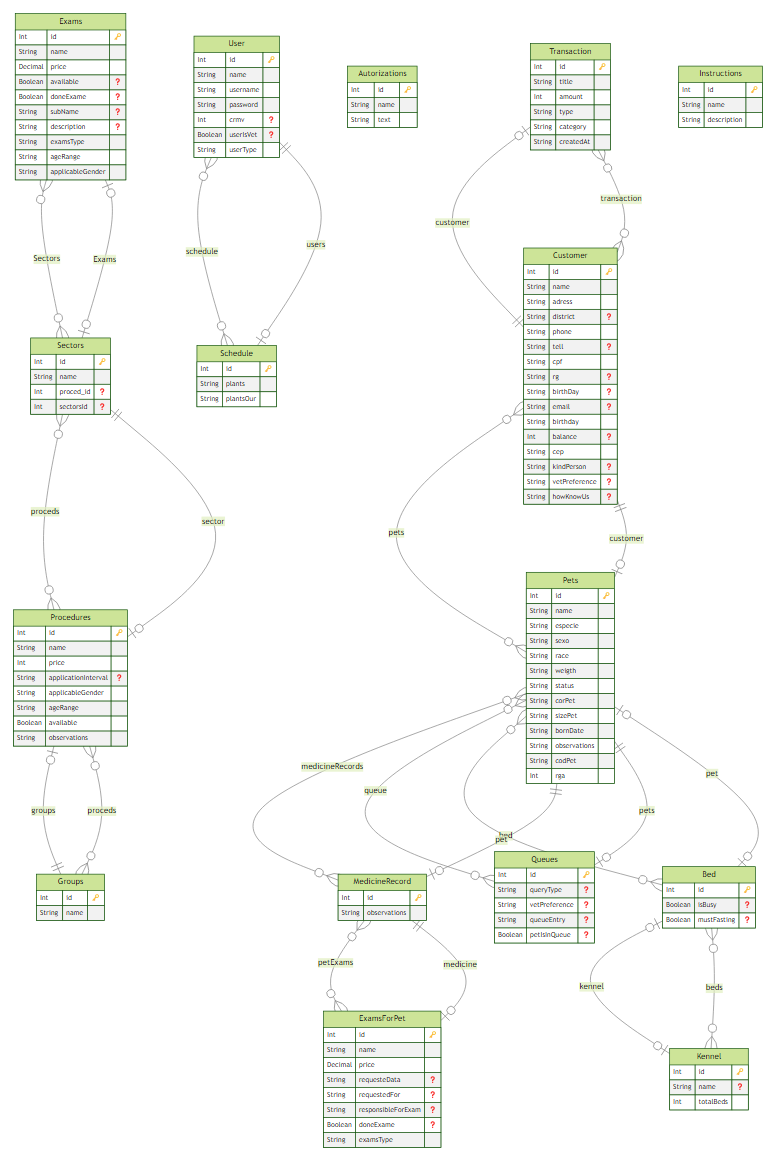
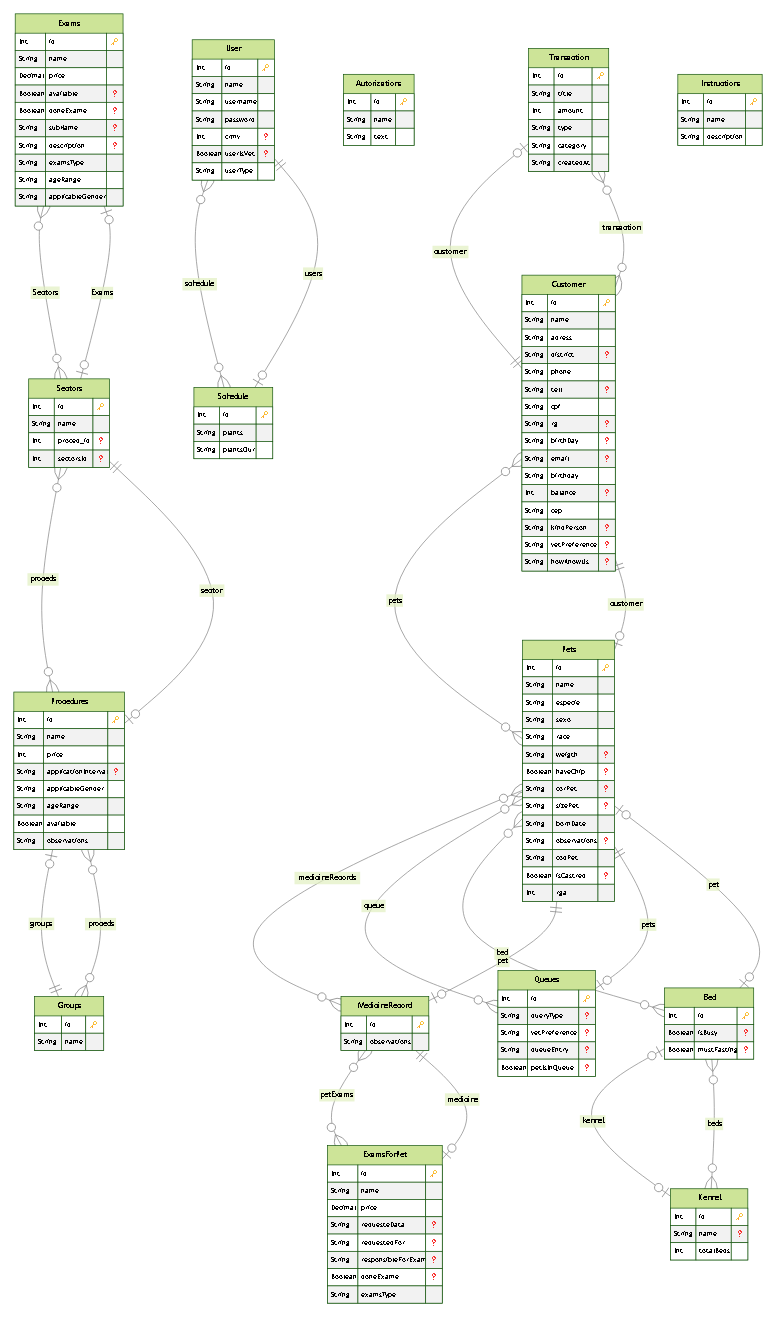
att0706

diff --git a/app/src/components/Forms/CreatePetsForm.tsx b/app/src/components/Forms/CreatePetsForm.tsx
@@ -4,8 +4,15 @@ import {
   FormControl,
   FormLabel,
   Button,
-  VStack
+  VStack,
+  Select,
+  HStack,
+  RadioGroup,
+  Radio,
+  Checkbox,
+  Textarea
 } from "@chakra-ui/react";
+import { useState } from "react";
 import { SubmitHandler, useForm } from "react-hook-form";
 import { useParams } from "react-router-dom";
 import { toast } from "react-toastify";
@@ -22,15 +29,228 @@ interface CreateNewPetProps {
     porte: string;
     sexo: string;
     rga: number;
-    status: string;
+    haveChip: string;
     obs: string
 }
 export function CreatePetsForm() {
     const { register, handleSubmit} = useForm()
     const { id } = useParams<{ id: string }>();
+    const [raceState, setEspecie] = useState("");
+    const [selectedYear, setSelectedYear] = useState('');
+    const [selectedMonth, setSelectedMonth] = useState('');
+    const [selectSex, setSelectedSex] = useState('');
+    const years = Array.from({ length: 21 }, (_, i) => i); 
+    const months = Array.from({ length: 13 }, (_, i) => i); 
+
+
+    const handleYearChange = (e: any) => {
+      setSelectedYear(e.target.value);
+    };
+  
+    const handleMonthChange = (e: any) => {
+      setSelectedMonth(e.target.value);
+    };
+  
+   let selectRaces
+    switch (true) {
+      case raceState === "Felina":
+        selectRaces = (
+          <Select borderColor="gray.900">
+             <option value="Birmanês">Birmanês</option>
+<option value="Persa">Persa</option>
+<option value="British Blue">British Blue</option>
+<option value="Escocês">Escocês</option>
+<option value="Russo Azul">Russo Azul</option>
+<option value="Himalaio">Himalaio</option>
+<option value="Chartrox">Chartrox</option>
+<option value="Mestiço">Mestiço</option>
+<option value="Pelo Curto Brasileiro">Pelo Curto Brasileiro</option>
+<option value="Himalaio Persa">Himalaio Persa</option>
+<option value="Rag Doll">Rag Doll</option>
+<option value="Angorá Turco">Angorá Turco</option>
+<option value="Comum Européia">Comum Européia</option>
+<option value="Siamês">Siamês</option>
+<option value="Rajado Brasileiro">Rajado Brasileiro</option>
+<option value="Sagrado da Birmânia">Sagrado da Birmânia</option>
+<option value="Sagrado">Sagrado</option>
+<option value="Maine Coon">Maine Coon</option>
+<option value="Bengal">Bengal</option>
+<option value="Househound Pet">Househound Pet</option>
+<option value="Scottish Straight">Scottish Straight</option>
+<option value="Snowshoe">Snowshoe</option>
+<option value="Persa Exótica">Persa Exótica</option>
+          </Select>
+        );
+        break;
     
+      case raceState === "Canina":
+        selectRaces = (
+          <Select borderColor="gray.900">
+             <option value="Pastor Suíço">Pastor Suíço</option>
+<option value="Spaniel Japonês">Spaniel Japonês</option>
+<option value="Springer Spaniel Inglês">Springer Spaniel Inglês</option>
+<option value="Mastin">Mastin</option>
+<option value="Basset Hound">Basset Hound</option>
+<option value="Benese">Benese</option>
+<option value="Poodle Champ">Poodle Champ</option>
+<option value="Airdale Terrier">Airdale Terrier</option>
+<option value="Samoyeda">Samoyeda</option>
+<option value="Bichon Frisè">Bichon Frisè</option>
+<option value="Setter Irlandês">Setter Irlandês</option>
+<option value="Mini Shnauzer">Mini Shnauzer</option>
+<option value="Dobermman">Dobermman</option>
+<option value="Starforshire Terrier">Starforshire Terrier</option>
+<option value="West Highlander White Terrier">West Highlander White Terrier</option>
+<option value="Basset Pelo Longo">Basset Pelo Longo</option>
+<option value="Tenerife">Tenerife</option>
+<option value="Pastor de Shettland">Pastor de Shettland</option>
+<option value="Cani Corso">Cani Corso</option>
+<option value="Poodle Micro Toy">Poodle Micro Toy</option>
+<option value="Afghan Hound">Afghan Hound</option>
+<option value="Sheep Dog Alemão">Sheep Dog Alemão</option>
+<option value="Border Collie">Border Collie</option>
+<option value="Bull Dog Francês">Bull Dog Francês</option>
+<option value="Rott Weiller">Rott Weiller</option>
+<option value="American Pit Bull">American Pit Bull</option>
+<option value="Golden">Golden</option>
+<option value="Dog Agentino">Dog Agentino</option>
+<option value="Pastor de Buceron">Pastor de Buceron</option>
+<option value="Pequinês Alemão">Pequinês Alemão</option>
+<option value="Splinter">Splinter</option>
+<option value="Malamute">Malamute</option>
+<option value="Malamute Alaska">Malamute Alaska</option>
+<option value="Minie Collie">Minie Collie</option>
+<option value="York Shire">York Shire</option>
+<option value="Cocker Americano">Cocker Americano</option>
+<option value="Schnauzer">Schnauzer</option>
+<option value="Bull Dog">Bull Dog</option>
+<option value="Starforshire Bull Terrier">Starforshire Bull Terrier</option>
+<option value="Boxer Inglês">Boxer Inglês</option>
+<option value="Americano">Americano</option>
+<option value="Lhasa-Apso">Lhasa-Apso</option>
+<option value="Dálmata">Dálmata</option>
+<option value="Poodle Toy">Poodle Toy</option>
+<option value="Mini Pinscher">Mini Pinscher</option>
+<option value="Sheep Dog">Sheep Dog</option>
+<option value="Cairn Terrier">Cairn Terrier</option>
+<option value="Cristado Chinês">Cristado Chinês</option>
+<option value="Fox Terrier Pelo Curto">Fox Terrier Pelo Curto</option>
+<option value="Blue Riller">Blue Riller</option>
+          </Select>
+        );
+        break;
+    
+      case raceState === "Ave":
+        selectRaces = (
+          <Select borderColor="gray.900">
+             <option value="Canário">Canário</option>
+<option value="Codorna">Codorna</option>
+<option value="Galo">Galo</option>
+<option value="Pássaro Preto">Pássaro Preto</option>
+<option value="Mandarim">Mandarim</option>
+<option value="Pássaro Preto">Pássaro Preto</option>
+<option value="Canário da Terra">Canário da Terra</option>
+<option value="Agapones">Agapones</option>
+<option value="Arara">Arara</option>
+<option value="Bem Te Ví">Bem Te Ví</option>
+<option value="Agapolis">Agapolis</option>
+<option value="Pica-Pau">Pica-Pau</option>
+<option value="Gralha">Gralha</option>
+<option value="Sagui">Sagui</option>
+<option value="Periquito Australiano">Periquito Australiano</option>
+<option value="Pardal">Pardal</option>
+<option value="Beija Flor">Beija Flor</option>
+<option value="Maritaca">Maritaca</option>
+<option value="Angolista">Angolista</option>
+<option value="Periquito">Periquito</option>
+<option value="Papagaio do Congo">Papagaio do Congo</option>
+<option value="Personata">Personata</option>
+<option value="Pomba">Pomba</option>
+<option value="Bicudo">Bicudo</option>
+<option value="Papagaio">Papagaio</option>
+<option value="Pássaro">Pássaro</option>
+<option value="Ring Neck">Ring Neck</option>
+<option value="Carpa">Carpa</option>
+<option value="Kinguio">Kinguio</option>
+          </Select>
+        );
+        break;
+    
+      case raceState === "Roedor":
+        selectRaces = (
+          <Select borderColor="gray.900">
+             <option value="Esquilo da Mongólia">Esquilo da Mongólia</option>
+              <option value="Esquilo">Esquilo</option>
+              <option value="Hamster">Hamster</option>
+              <option value="Gerbil">Gerbil</option>
+              <option value="Porquinho da Índia">Porquinho da Índia</option>
+              <option value="Coelho">Coelho</option>
+              <option value="Camundongo">Camundongo</option>
+          </Select>
+        );
+        break;
+    
+      case raceState === "Silvestre":
+        selectRaces = (
+          <Select borderColor="gray.900">
+             <option value="Furão">Furão</option>
+          </Select>
+        );
+        break;
+    
+      case raceState === "Primata":
+        selectRaces = (
+          <Select borderColor="gray.900">
+              <option value="Mico Estrela
+                ">Mico Estrela
+                </option>
+                <option value="Sagui
+                ">Sagui
+                </option>
+          </Select>
+        );
+        break;
+    
+      case raceState === "Réptil":
+        selectRaces = (
+          <Select borderColor="gray.900">
+             <option value="Iguana">Iguana</option>
+            <option value="Red Slider">Red Slider</option>
+            <option value="Jibóia">Jibóia</option>
+            <option value="Tartaruga">Tartaruga</option>
+            <option value="Jabuti">Jabuti</option>
+          </Select>
+        );
+        break;
+    
+      case raceState === "Quelônio":
+        selectRaces = (
+          <Select borderColor="gray.900">
+              <option value="Tigre d'água">Tigre d'água</option>
+          </Select>
+        );
+        break;
+    
+      case raceState === "Peixe":
+        selectRaces = (
+          <Select borderColor="gray.900">
+               <option value="PEIXONAUTA">PEIXONAUTA</option>
+          </Select>
+        );
+        break;
+    
+      default:
+        selectRaces = (
+          <Select borderColor="gray.900">
+             <option value="NOTVALUE">SELECIONE A ESPECIE</option>
+          </Select>
+        );
+        break;
+    }
+    
+
     const handleCreateNewCliente: SubmitHandler<CreateNewPetProps>  = async (values) => {
-      const data = {
+      /*const data = {
         name: values.name,
         especie: values.especie,
         sexo: values.sexo,
@@ -43,11 +263,13 @@ export function CreatePetsForm() {
         observations: values.obs,
         rga: values.rga
       }
+      */
         
      
       try {
-        await api.post(`/pets/${id}`, data)
-        toast.success('pet cadastrado com sucesso')
+      /*  await api.post(`/pets/${id}`, data)
+        toast.success('pet cadastrado com sucesso')*/
+        console.log(values.especie)
       } catch (error) {
        
         console.error(error)
@@ -65,40 +287,78 @@ export function CreatePetsForm() {
         <FormLabel htmlFor="name">Nome do Pet</FormLabel>
         <Input {...register("name")} id="name"  maxWidth={320} name="name"  />
 
-        <FormLabel htmlFor="bornDate">Data de nascimento </FormLabel>
-        <Input {...register("bornDate")} id="bornDate"  maxWidth={320} name="bornDate"  />
+        <FormLabel fontWeight="bold" htmlFor="bornDate">Idade</FormLabel>
+        <HStack>
+        <label htmlFor="year">Anos</label>
+        <Select borderColor="gray.900" id="year" value={selectedYear} onChange={handleYearChange}>
+          {years.map((year) => (
+            <option key={year} value={year}>
+              {year}
+            </option>
+          ))}
+        </Select>
+        <label htmlFor="month">Meses</label>
+        <Select borderColor="gray.900" id="month" value={selectedMonth} onChange={handleMonthChange}>
+          {months.map((month) => (
+            <option key={month} value={month}>
+              {month}
+            </option>
+          ))}
+        </Select>
+        </HStack>
 
         <FormLabel htmlFor="cor">Cor do pet</FormLabel>
         <Input {...register("cor")} id="cor"  maxWidth={320} name="cor"  />
 
-        <FormLabel htmlFor="especie">especie do pet</FormLabel>
-        <Input {...register("especie")} id="especie"  maxWidth={320} name="especie"  />
+        <FormLabel htmlFor="especie">Especie do PET</FormLabel>
+        <Select name="especie" onChange={(ev) => setEspecie(ev.target.value)} borderColor="gray.900" placeholder='Selecione a Especie do ANIMAL'>
+        <option value="Felina">Felina</option>
+        <option value="Canina">Canina</option>
+        <option value="Ave">Ave</option>
+        <option value="Roedor">Roedor</option>
+        <option value="Silvestre">Silvestre</option>
+        <option value="Primata">Primata</option>
+        <option value="Réptil">Réptil</option>
+        <option value="Quelônio">Quelônio</option>
+        <option value="Peixe">Peixe</option>
+
+        </Select>
+
+        <FormLabel htmlFor="race">Raça</FormLabel>
+          <>{selectRaces}</>
         </VStack>
         <VStack pl="8">
         <FormLabel htmlFor="sexo">Sexo do Pet</FormLabel>
-        <Input {...register("sexo")} id="sexo"  maxWidth={320} name="sexo"  />
+     <RadioGroup onChange={setSelectedSex} value={selectSex}>
+      <Flex gap={2}>
+      <Radio borderColor="black" value="MACHO" >MACHO</Radio>
+      <Radio  borderColor="black" value="FEMEA">FEMEA</Radio>
+      </Flex>
+      
+     </RadioGroup>
 
     
-        <FormLabel htmlFor="rga">pedigree/rga</FormLabel>
-        <Input {...register("rga")} id="rga"  maxWidth={320} name="rga"  />
+        <FormLabel fontWeight="bold" htmlFor="isCastred">Animal e Castrado?</FormLabel>
+        <Checkbox borderColor="gray.900" {...register("isCastred")} id="isCastred"  maxWidth={320} name="isCastrated"  />
 
         <FormLabel htmlFor="porte">porte do Pet</FormLabel>
         <Input {...register("porte")} id="porte"  maxWidth={320} name="porte"  />
+
+        <FormLabel fontWeight="bold" htmlFor="haveChip">Animal e Microchipado?</FormLabel>
+        <Checkbox borderColor="gray.900" {...register("haveChip")} id="haveChip"  maxWidth={320} name="haveChip"  />
+
+        <FormLabel fontWeight="bold" pt="4" htmlFor="peso">Peso</FormLabel>
+        <Input {...register("peso")} id="peso"  maxWidth={320} name="peso"  />
+
         </VStack>
 
         <VStack pl="8">
-        <FormLabel htmlFor="status">Status</FormLabel>
-        <Input {...register("status")} id="status"  maxWidth={320} name="status"  />
-
-        <FormLabel htmlFor="peso">Peso</FormLabel>
-        <Input {...register("peso")} id="peso"  maxWidth={320} name="peso"  />
-
+       
 
         <FormLabel htmlFor="obs">Observações</FormLabel>
-        <Input {...register("obs")} id="obs"  maxWidth={320} name="obs"  type="text" />
+        <Textarea height={400} bgColor="white" borderColor="gray.900" {...register("obs")} id="obs"  maxWidth={320} name="obs" />
 
-        <FormLabel htmlFor="race">Raça</FormLabel>
-        <Input {...register("race")} id="race"  maxWidth={320} name="race"  type="text" />
+      
         </VStack>
 
 

diff --git a/app/src/pages/Customer/index.tsx b/app/src/pages/Customer/index.tsx
@@ -34,6 +34,7 @@ import { DbContext } from "../../contexts/DbContext";
 
 
 interface CustomerProps {
+  id: string | number;
   name: string;
   adress: string;
   phone: string;
@@ -55,6 +56,7 @@ export function Customer() {
   const [queryType, setQueryType] = useState("")
   const [vetPreference, setVetPreference] = useState("")
   const [customer, setCustomer] = useState<CustomerProps>({
+    id: "",
     name: "",
     adress: "",
     email: "",
@@ -155,7 +157,7 @@ async function setPetInQueue () {
 
             <Flex  direction="column"  bgColor="gray.100" rounded={4} p="2" className="div2" align="center" textAlign="center" >
               <Text fontWeight="black" bgColor="green.100" width="500px" rounded={4}  >SELECIONE UM ANIMAL PARA CONTINUAR</Text>
-              <Button onClick={() => navigate("/Recepcao/Create")} mb="2" colorScheme="teal" height="28px">ou adicione um novo animal</Button>
+              <Button onClick={() => navigate(`/Recepcao/Consultas/Clientes/Pets/Create/${customer.id}`)} mb="2" colorScheme="teal" height="28px">ou adicione um novo animal</Button>
               <Flex overflow="auto" overflowX="auto" w="100%" height="100%">
              
                 <Table  flexDirection="column" >
